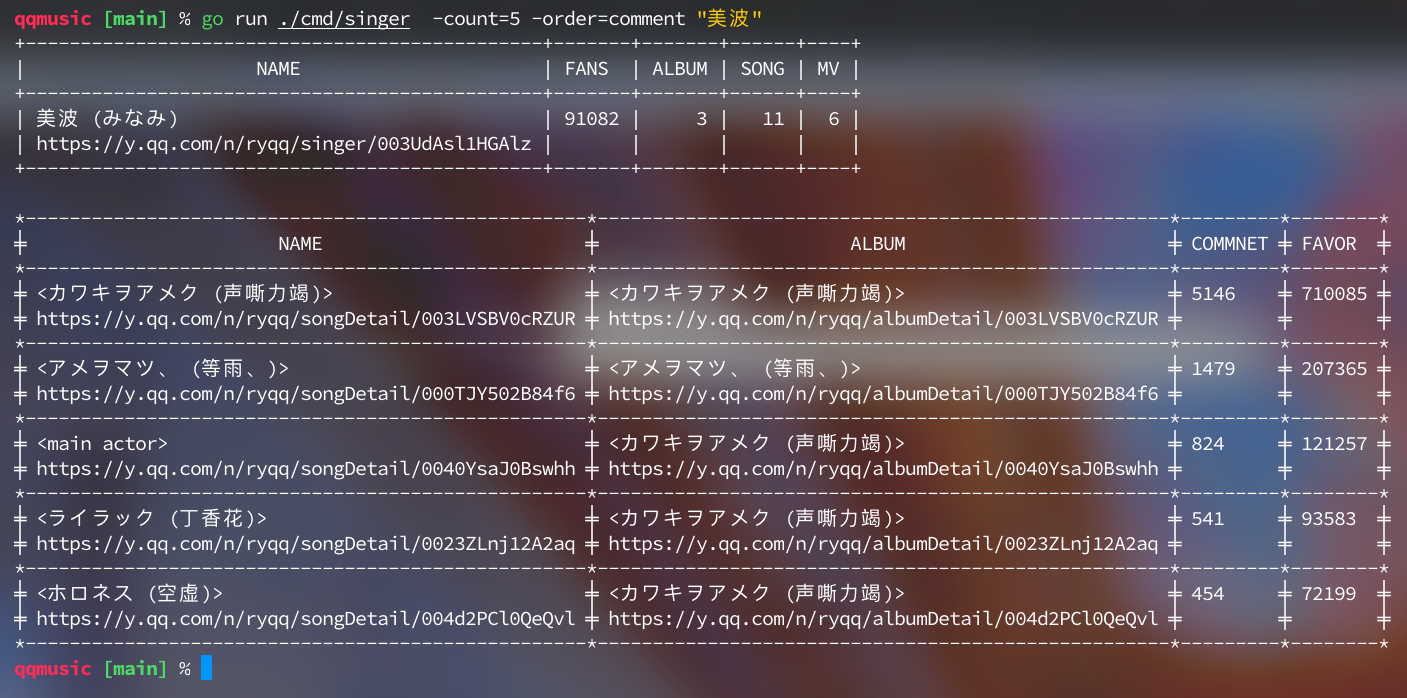
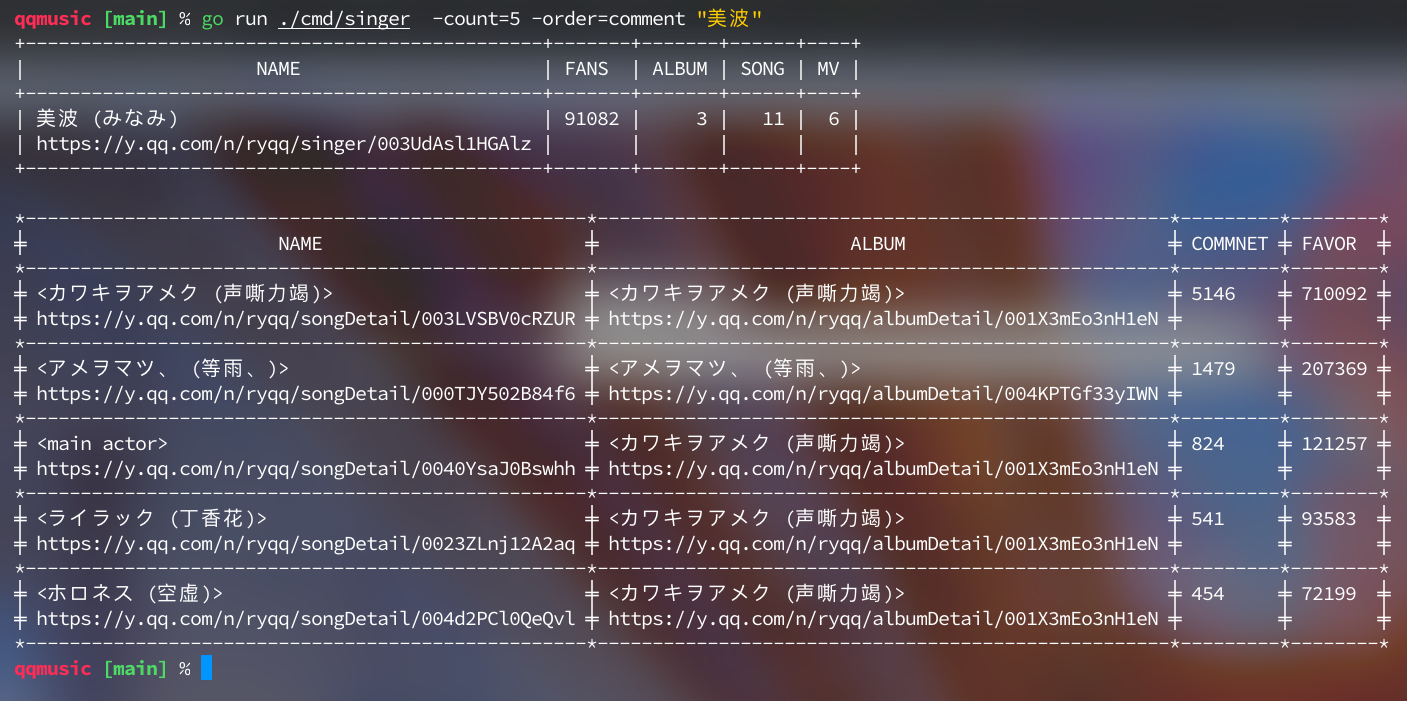
Fix album link error

diff --git a/cmd/singer/singer.go b/cmd/singer/singer.go
@@ -90,7 +90,7 @@ func main() {
 		songData = append(songData,
 			[]string{
 				fmt.Sprintf("<%s> https://y.qq.com/n/ryqq/songDetail/%s", info.Title, info.Mid),
-				fmt.Sprintf("<%s> https://y.qq.com/n/ryqq/albumDetail/%s", info.Album.Title, info.Mid),
+				fmt.Sprintf("<%s> https://y.qq.com/n/ryqq/albumDetail/%s", info.Album.Title, info.Album.Mid),
 				strconv.Itoa(song.CommnetCount),
 				strconv.Itoa(song.FavorCount),
 			},
